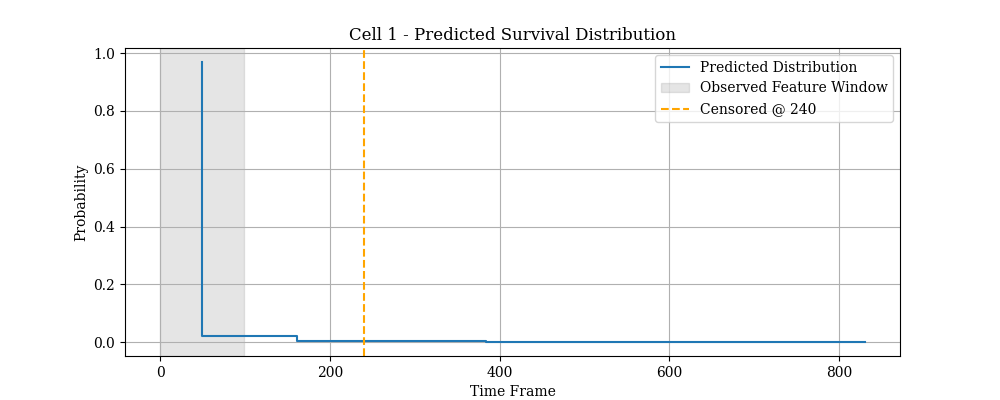
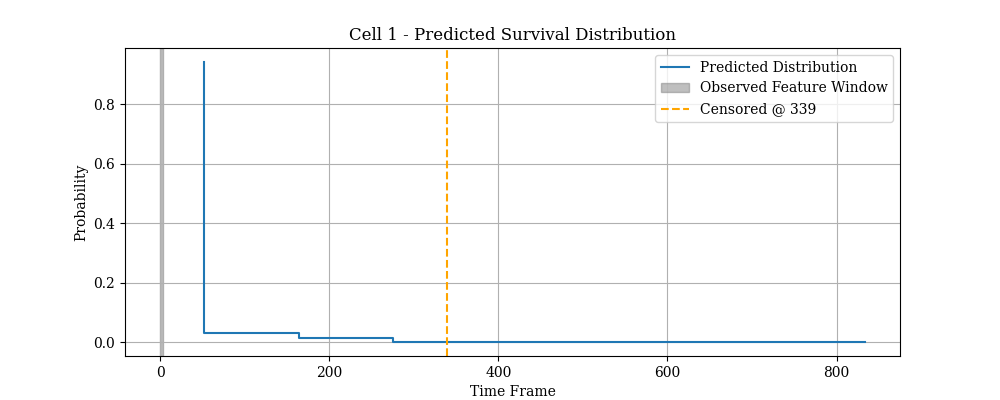
-

diff --git a/PhagoPred/survival_analysis/validate.py b/PhagoPred/survival_analysis/validate.py
@@ -54,6 +54,7 @@ def visualize_validation_predictions(model, dataloader, device, bin_edges, num_e
             predicted_dists = predicted_dists.cpu().numpy()
 
             for i in range(len(cell_features)):
+               
                 if examples_plotted >= num_examples:
                     break
                 if i >= 1:
@@ -66,16 +67,19 @@ def visualize_validation_predictions(model, dataloader, device, bin_edges, num_e
                 event = event_indicators[i]
                 seq_len = lengths[i]  # sequence length for this sample
 
+                abs_bin_edges = bin_edges + seq_len
+                
                 plt.figure(figsize=(10, 4))
-                plt.step(bin_edges[:-1], pred_dist, label='Predicted Distribution')
+                plt.step(abs_bin_edges[:-1], pred_dist, label='Predicted Distribution')
 
                 # Shade region up to seq_len to show where features were observed
-                plt.axvspan(0, seq_len, color='gray', alpha=0.2, label='Observed Feature Window')
-
+                plt.axvspan(0, seq_len, color='gray', alpha=0.5, label='Observed Feature Window')
+                
+                abs_event_time = true_time + seq_len
                 if event == 1:
-                    plt.axvline(x=true_time, color='red', linestyle='--', label=f'True Death @ {true_time}')
+                    plt.axvline(x=abs_event_time, color='red', linestyle='--', label=f'True Death @ {abs_event_time}')
                 else:
-                    plt.axvline(x=true_time, color='orange', linestyle='--', label=f'Censored @ {true_time}')
+                    plt.axvline(x=abs_event_time, color='orange', linestyle='--', label=f'Censored @ {abs_event_time}')
 
                 plt.xlabel('Time Frame')
                 plt.ylabel('Probability')
@@ -123,7 +127,7 @@ def validate(model, model_dir, val_hdf5_paths):
     val_loss = validate_step(model, validate_loader, loss_fn, device)
     print(f"Validation Loss: {val_loss:.4f}")
 
-    visualize_validation_predictions(model, validate_loader, device, num_examples=5, save_path=model_dir)
+    visualize_validation_predictions(model, validate_loader, device, num_examples=50, save_path=model_dir)
     
 def main():
     validate(

diff --git a/PhagoPred/survival_analysis/train.py b/PhagoPred/survival_analysis/train.py
@@ -101,7 +101,7 @@ def train(model, model_params, train_hdf5_paths: list, val_hdf5_paths: list, fea
     plot_training_losses(training_json, save_dir / 'loss_plot.png')
     print(f"Training complete. Model saved to {save_dir}")
 
-    visualize_validation_predictions(model, validate_loader, device, num_examples=5, save_path=save_dir , bin_edges=bins)
+    visualize_validation_predictions(model, validate_loader, device, num_examples=20, save_path=save_dir , bin_edges=bins)
 
     
 
